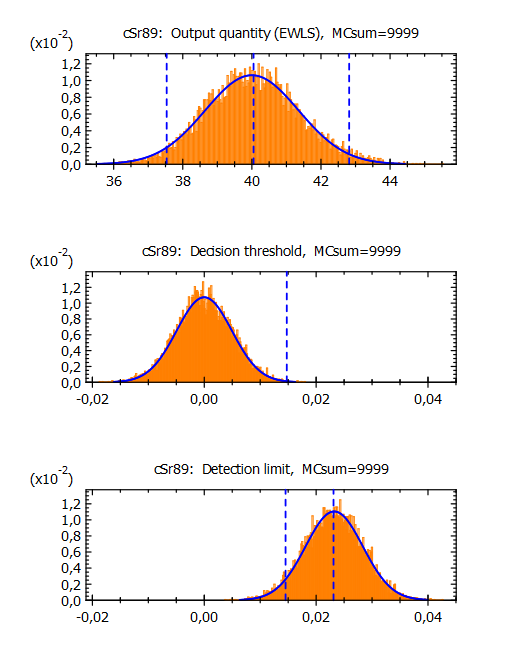
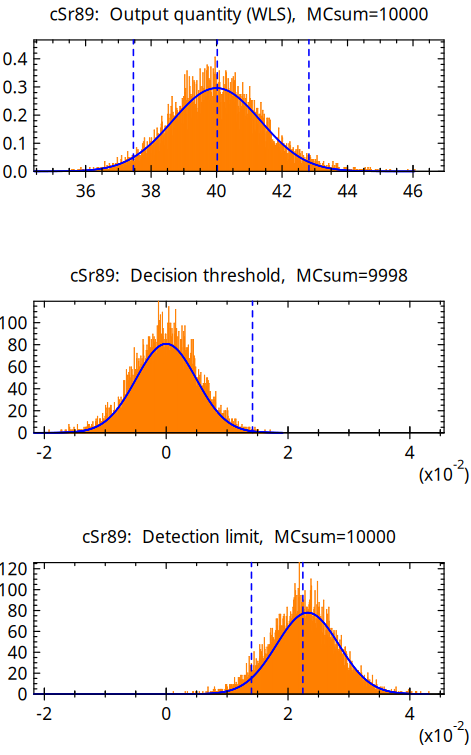
updated the paper (spelling, specifications and the figure)

diff --git a/paper/paper.md b/paper/paper.md
@@ -39,11 +39,6 @@ bibliography: paper.bib
 # aas-journal: Astrophysical Journal <- The name of the AAS journal.
 ---
 
-<!-- # Statement of need
-
-`UncertRadio` is an
-
-`UncertRadio` was designt -->
 
 # Summary and statement of need
 
@@ -69,17 +64,17 @@ There are two main analytical approaches used within the software:
 - Procedures utilizing linear unfolding methods: The model additionally includes linear least squares procedures
   for fitting e.$\,$g. time-dependent decay or build-up curves [@kanisch2016b].
 
-Additionally, the model can be evaluated with a Monte Carlo simulation [@ISO.11929-2:2019]
-(\autoref{fig:image0}). This represents the method of propagating whole distributions, which has
+Additionally, the model can be evaluated with a Monte Carlo simulation following ISO 11929-2 [-@ISO.11929-2:2019]
+(see \autoref{fig:image0}). This represents the method of propagating whole distributions, which has
 advantages if the distributions of the input variable distributions significantly
-deviate from the normal distribution; see ISO GUM Supplements 1
-and 2 [@jointcommitteeforguidesinmetrology2008a, @jointcommitteeforguidesinmetrology2011].
+deviate from the normal distribution; see ISO GUM Supplements 1 [-@jointcommitteeforguidesinmetrology2008a]
+and 2 [-@jointcommitteeforguidesinmetrology2011].
 
-![Example of results obtained with the Monte Carlo simulation [@ISO.11929-2:2019]. The results (output quantity, decision threshold and detection limit) calculated following @ISO.11929-2:2019 are also included. \label{fig:image0}](UR2MC_EN.png){width=80%}
+![Example of results obtained with the Monte Carlo simulation (upper row). The results (output quantity, decision threshold and detection limit) calculated following ISO 11929-2 [-@ISO.11929-2:2019] are also included. \label{fig:image0}](UR2MC_EN.png){width=75%}
 
 # Scientific references
 `UncertRadio` has been used in several scientific publications. It is referenced by the standard
-@@ISO.11929-1:2019 to @ISO.11929-4:2022 series and actively used by the German authorities for monitoring
+ISO 11929-1:2019 [-@ISO.11929-1:2019] to ISO 11929-4:2022 [-@ISO.11929-4:2022] and actively used by the German authorities for monitoring
 environmental radioactivity and external radiation.
 
 In @kanisch2016a, an overview considering evaluations without using linear unfolding has been presented.
@@ -112,8 +107,8 @@ features, e.$\,$g. the C-interoperability.
 
 The graphical user interface is build with GTK 3 in combination with gtk-fortran [@magnin2019], which provides the required Fortran bindings. PLplot is implemented for the graphical presentations [@theplplotteam].
 
-Many of the utilized numerical procedures are derived from the work of
-[Alan Miller](https://wp.csiro.au/alanmiller/;https://jblevins.org/mirror/amiller/),
+Many of the utilized numerical procedures are derived from the work of Alan Miller
+([[1](https://wp.csiro.au/alanmiller/)], [[2](https://jblevins.org/mirror/amiller/)]),
 [John Burkardt](https://people.sc.fsu.edu/~jburkardt/) and @brandt1999.
 A function parser [@schmehl2008] is included for interpreting user-defined equations.
 
@@ -128,8 +123,9 @@ on the homepage of the
 `UncertRadio` contains an extensive `compiled HTML help` (chm) file for the description of the program
 features in German and English language. The individual help topics
 are available from within `UncertRadio` using various help buttons.
-A sphinx documentation based on this help file is in preparation. The current development goals
-and open issues can be found in the README file.
+A sphinx documentation based on this help file is in preparation and already included in the
+[develop](https://github.com/OpenBfS/UncertRadio/tree/develop)-branch.
+The current development goals and open issues can be found in the README file.
 
 Code problems can be reported in the [issues](https://github.com/OpenBfS/UncertRadio/issues) tab on GitHub.
 The authors are happy to help within their capabilities.
@@ -142,165 +138,11 @@ The authors declare no financial conflicts of interest.
 # Acknowledgements
 The authors thank all those who have contributed to improving `UncertRadio` by
 reporting problems and suggesting new features.
-We also thank D. Schrammel (KIT, Karlsruhe, Germany) for many
-comparison test calculations and Prof. R. Michel (formerly IRS, Hannover, Germany),
-who tested and applied `UncertRadio` during preparation of @ISO.11929-4:2022.
+We also thank D. Schrammel (KIT, Karlsruhe, Germany) for many comparison test
+calculations as well as Prof. R. Michel (formerly IRS, Hannover, Germany),
+for testing  and applying `UncertRadio` during the preparation of ISO 11929-4 [-@ISO.11929-4:2022].
 
 Furthermore, the authors especially thank Marco Lechner and Josef Peter, who have contributed
 with their knowledge and constructive suggestions to make `UncertRadio` open source.
 
 # References
-
-
-<!-- # Mathematics
-
-Single dollars ($) are required for inline mathematics e.g. $f(x) = e^{\pi/x}$
-
-Double dollars make self-standing equations:
-
-$$\Theta(x) = \left\{\begin{array}{l}
-0\textrm{if} x < 0\cr
-1\textrm{else}
-\end{array}\right.$$
-
-You can also use plain \LaTeX for equations
-\begin{equation}\label{eq:fourier}
-\hat f(\omega) = \int_{-\infty}^{\infty} f(x) e^{i\omega x} dx
-\end{equation}
-and refer to \autoref{eq:fourier} from text. -->
-
-<!-- # Citations
-
-Citations to entries in paper.bib should be in
-[rMarkdown](http://rmarkdown.rstudio.com/authoring_bibliographies_and_citations.html)
-format.
-
-If you want to cite a software repository URL (e.g. something on GitHub without a preferred
-citation) then you can do it with the example BibTeX entry below for @fidgit.
-
-For a quick reference, the following citation commands can be used:
-- `@kanisch2016`  ->  "Author et al. (2001)"
-- `[@kanisch2016]` -> "(Author et al., 2001)"
-- `[@kanisch2016; @kanisch2017]` -> "(Author1 et al., 2001; Author2 et al., 2002)" -->
-
-<!-- # Figures
-
-Figures can be included like this:
-![Caption for example figure.\label{fig:example}](figure.png)
-and referenced from text using \autoref{fig:example}.
-
-Figure sizes can be customized by adding an optional second parameter:
-![Caption for example figure.](figure.png){ width=20% } -->
-
-
-
-
-<!-- It has been demonstrated earlier  how a generalized evaluation of a large
-variety of environmental radioactivity measurements with and without using linear unfolding,
-can be performed with a single program, `UncertRadio`. It is able to evaluate a set of
-equations describing the measurement evaluation model, provided by the user during runtime,
-through a function parser called fparser [@schmehl2008].
-
-
-Furthermore, the evaluation within `UncertRadio` is extended to include @DIN11929-1:2021 decision
-thresholds and detection limits. Alternative to numerical uncertainty propagation,
-the "propagation of distributions" of input variables with Monte Carlo (MC) simulation in
-accordance to @DIN11929-2:2021 is included.
-
-\sout{The classical way of uncertainty
-calculation often consisted in breaking up the formula for the output quantity into a general
-product of few smaller parts (e.$\,$g. factors), first apply the uncertainty propagation to these
-parts and combine then their uncertainties to the output quantity uncertainty. This way of handling
-may easily lead to non-recognized or over-looked covariances between the smaller parts by such
-input quantities occurring in more than one of the smaller parts.}
-
-Measurement procedures dealing with more than one output quantity generally would suggest
-applying linear unfolding methods, i.$\,$e, linear weighted least-squares [@DIN11929-3:2021]. The
-important methods of determining strontium radionuclide activities of Sr-90 and Sr-89 in environmental
-samples are one of such examples. It may be characterized by the evaluation scheme "two equations
-with two unknowns". -->
-
-<!-- i.   The sum a detection dependent background count rate $R_0$ and, if applicable, an interference
-     count rate $R_{(\text{BI})}$ is subtracted. So, there is a linear dependency between $R_n$ and a
-     gross counting rate $R_g$;
-ii.	 The dependency between the output quantity $y$ (activity concentration) and $R_n$ is also
-     linear, $y=F_C + F_L \cdot R_n$;
-iii. The uncertainty of the gross counting rate $R_g$ can be expressed by a simple formula, in
-     most cases simply as $u(R_g)=\sqrt{R_g /t_m}$ with a counting duration $t_m$.
-     The gross count rate is the only one containing the contribution by the radionuclide
-     activity which is to be measured.
-
-$F_C$ usually is zero, but it may become negative in few special cases. The proportionality
-factor $F_L$ represents a procedure-dependent calibration factor, i.$\,$e., the quantity $w$ used in
-@DIN11929-1:2021. The symbols associated with the net counting rate and the gross count
-rate need to be identified by the user in a program dialog.
-
-\sout{Deriving values of decision threshold or detection limit requires finding other
-values $\tilde R_n$ from given, or modified, values $\tilde y$ of the output quantity,
-where \~ denotes such
-modified values. The decision threshold, denoted by $y^*$, as an example, requires finding
-the uncertainty $u(\tilde y=0)$ for the modified output quantity value $\tilde y=0$. The
-above-mentioned linear relations allow to find the associated $\tilde R_g$ for which the
-uncertainty value is $u(\tilde R_g)=\sqrt{\tilde R_g/t_m}$.
-Re-starting the uncertainty calculation now from the
-pair $\tilde R_g$ and $u(\tilde R_g)$ leads to the uncertainty $u(\tilde y=0)$ and
-thereby to the decision threshold $y^* = k_{1-\alpha} \cdot u(\tilde y=0)$.
-The detection limit, denoted by $y^\#$, is obtained by iteration from
-the implicit relation $y^\# =y^* +k_{1-\beta} \cdot u(y^\#)$.}
-
-In the publication Part II [@kanisch2016b] the extension of the method to such evaluation
-models is described which require a weighted linear least-squares method (WLS) for a part
-of the evaluation model. Now, there is a series of time-dependent measured net count rates
-from the sample preparation available, which in most cases form a decay curve or a build-up
-curve. Theoretical functions of such curves are defined from the Bateman equations for
-radioactive decay of single radionuclides or of decay-chains of two radionuclides, like e.g.
-the parent-daughter pair Sr-90, Y-90, encountered in the radiochemistry of Strontium isotopes.
-In the present version of `UncertRadio`, up to three radionuclides are allowed for contributing
-to the decay curve. A weighted least-squares fit of the function to the decay-curve is applied. -->
-
-<!-- The example project files coming with `UncertRadio` also contains the example of the IAEA AQ27
-report but designt for using linear unfolding (file Sr89-Sr90_IAEA_AQ-27_2013_V2_EN.txp).
-The associated `UncertRadio` results agree with those stated in the report.
-
-Two other example files for a combined Sr-90 and Sr-89 determination, J-ALUFT-Sr89-Sr-90_V2_EN.txp
-and J-ALUFT_Sr-89_Sr-90_Linf_EN.txp, demonstrate the complete agreement of the two versions, where
-the second file uses linear unfolding.
-
-These two comparisons demonstrate the agreement of the two versions. We suggest that generally the
-linear unfolding method will be the more effective method.
-
-For the context of measuring Tritium activities in air samples, it is demonstrated with two example
-projects how the full evaluation of two output quantities, organic and water-soluble Tritium, is
-set up for linear unfolding. The method of measurement is described by Duda et al. (2018).
-The two example project files are Tritium_4Bubbler_used_1-3_EN.txp and Tritium_4Bubbler_used_2-3_EN.txp.
-
-A special case arises if results of several individual measurements are to be combined into one
-output quantity by applying a weighted mean. One example is given by a gamma-ray spectrometry
-application, where a single radionuclide emits $n > 1$ gamma rays with different energies. For each
-gamma-ray an individual activity value is obtained. It is desired to build a single weighted mean
-from the $n$ individual activity values. The open question then often is, how to calculate the
-associated decision threshold and detection limit. In `UncertRadio`, the method of linear unfolding
-solves all this. Two examples project files (Several-peaks-nuclide-activity-V3_EN.txp and La140_REMSPEC-4Lines-V3_EN.txp)
-were prepared which demonstrate how the evaluation equations are set up correspondingly.
-
-The publication IAEA-AQ27 may serve as a literature example, which is often
-referred to by other publications, like that of Holmgren Rondal and Ramebäck (2018). However, they
-prefer to solve the "two equations" sequentially by building subtractions. This may lead to more
-complicated uncertainty propagation formulae. A reason for avoiding the linear unfolding method might
-generally be the application of matrix algebra for calculating the output quantity and its uncertainty.
-When using `UncertRadio` for this type of application the matrix algebra is hidden to the user.
-
-Another Report on radiostrontium determination methods (EPA, 2011) demonstrates, especially in its
-Appendices A and B, the very significant and error-prone effort for setting up manually the various
-formulae required for programming the uncertainty propagation. And these calculations did not yet
-include those of detection limits. When using `UncertRadio` instead, the user would only the supply
-the rather simple equations for activity calculations, the remaining effort, uncertainty propagation
-and detection limit calculations, is taken by the program.
-
-A procedures Manual for monitoring of radioactive substances in the environment
-and of external radiation is [available online](https://www.bmuv.de/en/themen/strahlenschutz/ionisierende-strahlung/ueberwachung-der-radioaktivitaet-in-der-umwelt/procedures-manuals).
-Within the individual procedures of the Manual, the necessary example calculations are carried out with
-`UncertRadio`. In suitable applications, Excel files with embedded VBA code are also presented
-and the results are compared with `UncertRadio`.
-In addition, a collection of `UncertRadio` example project files, prepared
-by Federal coordinating offices is [available](https://www.bmuv.de/en/themen/strahlenschutz/ionisierende-strahlung/ueberwachung-der-radioaktivitaet-in-der-umwelt/procedures-manuals/files). -->
